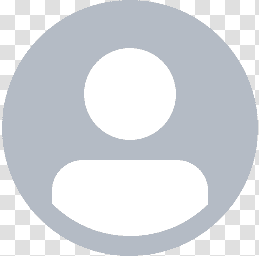
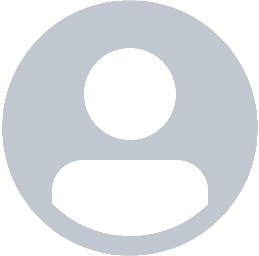
[feature] 로그인시 header에 user이미지 표시

diff --git a/src/components/common/Header.jsx b/src/components/common/Header.jsx
@@ -1,16 +1,19 @@
-import { useState } from 'react';
+import { useEffect, useState } from 'react';
 import {
   StHeader,
   StHeaderBtnWapper,
-  StHeaderBtn
+  StHeaderBtn,
+  Test
 } from './styles/Header.style';
 import Modal from '../Login/Modal';
+import { useSelector } from 'react-redux';
 
 const Header = () => {
   // 모달창을 위한 state 상태관리
   const [isOpen, setIsOpen] = useState(false);
   const [isSignUp, setIsSignUp] = useState(false);
   const [isLoggedIn, setIsLoggedIn] = useState(false);
+  const [loggedInUserId, setLoggedInUserId] = useState('');
 
   // 모달창 열고 닫기
   const onModalHandler = () => {
@@ -24,6 +27,13 @@ const Header = () => {
       }
     }
   };
+
+  // 프로필 이미지
+  const users = useSelector((state) => state.user.users);
+  const foundUser = users.find((user) => user.userId === loggedInUserId);
+  // useEffect(() => {
+  //   console.log(foundUser);
+  // }, [loggedInUserId]);
 
   return (
     <StHeader>
@@ -43,8 +53,17 @@ const Header = () => {
           setIsSignUp={setIsSignUp}
           isLoggedIn={isLoggedIn}
           setIsLoggedIn={setIsLoggedIn}
+          setLoggedInUserId={setLoggedInUserId}
         />
-        <StHeaderBtn>O</StHeaderBtn>
+        <StHeaderBtn>
+          {isLoggedIn && (
+            <Test
+              $isLoggedIn={isLoggedIn}
+              src={foundUser.image}
+              alt='기본이미지'
+            />
+          )}
+        </StHeaderBtn>
       </StHeaderBtnWapper>
     </StHeader>
   );

diff --git a/src/components/Login/Login.jsx b/src/components/Login/Login.jsx
@@ -27,7 +27,8 @@ const Login = ({
   importUsers,
   setIsLoggedIn,
   validEmail,
-  validPw
+  validPw,
+  setLoggedInUserId
 }) => {
   // Login의 state 상태관리
   const [email, setEmail] = useState('');
@@ -66,6 +67,7 @@ const Login = ({
       alert('로그인 되었습니다.');
       setIsLoggedIn(true);
       setIsOpen(false);
+      setLoggedInUserId(foundUser.userId);
     } else {
       alert('등록되지 않은 회원입니다.');
     }

diff --git a/src/components/Login/Modal.jsx b/src/components/Login/Modal.jsx
@@ -11,7 +11,7 @@ const Modal = ({
   isSignUp,
   setIsSignUp,
   setIsLoggedIn,
-  isLoggedIn
+  setLoggedInUserId
 }) => {
   const onSignUpHandler = () => {
     setIsSignUp(!isSignUp);
@@ -55,6 +55,7 @@ const Modal = ({
             setIsLoggedIn={setIsLoggedIn}
             validEmail={validEmail}
             validPw={validPw}
+            setLoggedInUserId={setLoggedInUserId}
           />
         )}
       </StContainer>

diff --git a/src/components/common/styles/Header.style.js b/src/components/common/styles/Header.style.js
@@ -32,3 +32,12 @@ export const StHeaderBtn = styled.button`
   background: none;
   border: none;
 `;
+
+export const Test = styled.img`
+  width: 50px;
+  position: absolute;
+  top: 3%;
+  right: 7%;
+  display: ${($isLoggedIn) => ($isLoggedIn ? 'block' : 'none')};
+  cursor: pointer;
+`;
